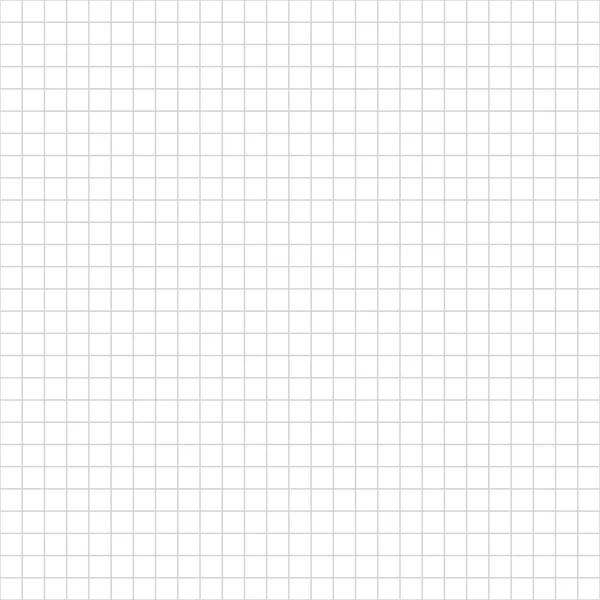
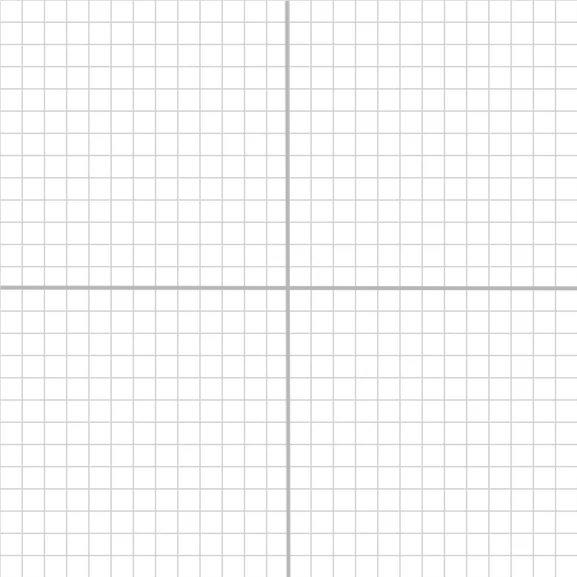
feat: add opportunity to save ornament and open existing ornament

Changed region(s): [[0.0, 0.0, 1.0, 1.0]]

diff --git a/src/main/java/ua/university/ornamenteditor/MainScreenController.java b/src/main/java/ua/university/ornamenteditor/MainScreenController.java
@@ -1,12 +1,22 @@
 package ua.university.ornamenteditor;
+import javafx.embed.swing.SwingFXUtils;
 import javafx.fxml.FXML;
+import javafx.scene.SnapshotParameters;
+import javafx.scene.canvas.GraphicsContext;
 import javafx.scene.control.ChoiceBox;
 import javafx.scene.control.ColorPicker;
 import javafx.scene.control.RadioButton;
+import javafx.scene.image.Image;
+import javafx.scene.image.WritableImage;
 import javafx.scene.paint.Color;
 import javafx.scene.canvas.Canvas;
 
 import javafx.scene.input.MouseEvent;
+import javafx.stage.FileChooser;
+
+import javax.imageio.ImageIO;
+import java.io.File;
+import java.io.IOException;
 
 public class MainScreenController {
 //    @FXML
@@ -17,19 +27,6 @@ public class MainScreenController {
         System.out.println("cleanCanvas");
         CanvasPrinting.deleteAll(myCanvas);
     }
-
-//    @FXML
-//    protected void cleanOneCross(MouseEvent e) {
-//        if (clearOne.isSelected()) {
-//            System.out.println("cleanOneCross");
-//            CanvasPrinting.deleteCross(e, myCanvas);
-//
-//        }
-//        else
-//            System.out.println("dont clear OneCross");
-//
-//
-//    }
 
 
     @FXML
@@ -55,8 +52,6 @@ public class MainScreenController {
         if(chooseSymetry.getValue().equals("Вертикальна")){
             System.out.println("Вертикальна");
         }
-
-
     }
 
     @FXML
@@ -68,16 +63,63 @@ public class MainScreenController {
     protected void printOrnament() {
         System.out.println("printOrnament");
     }
-//
-//    @FXML
-//    protected void printCross(MouseEvent e) {
-//        if (!clearOne.isSelected()) {
-//            System.out.println("printCross");
-//            Color picked = pickedColor.getValue();
-//            CanvasPrinting.putCross(e, myCanvas, picked);
-//        }
-//
-//    }
+
+    @FXML
+    public void saveOrnament(){
+        FileChooser fileChooser = new FileChooser();
+        fileChooser.setTitle("Збереження орнаменту");
+        fileChooser.getExtensionFilters().add(new FileChooser.ExtensionFilter("Зображення PNG (*.png)", "*.png"));
+        File file = fileChooser.showSaveDialog(myCanvas.getScene().getWindow());
+
+        if (file != null) {
+            try {
+                SnapshotParameters params = new SnapshotParameters();
+                params.setFill(Color.TRANSPARENT);
+                WritableImage snapshot = myCanvas.snapshot(params, null);
+                ImageIO.write(SwingFXUtils.fromFXImage(snapshot, null), "png", file);
+                System.out.println("Ornament is saved as: " + file.getAbsolutePath());
+            }
+            catch (IOException ex) {
+                System.out.println("Помилка збереження: " + ex.getMessage());
+            }
+        }
+    }
+
+
+
+
+    @FXML
+    protected void openOrnament() {
+        FileChooser fileChooser = new FileChooser();
+        fileChooser.setTitle("Відкрити орнамент");
+
+        // Дозволяємо вибирати тільки картинки
+        fileChooser.getExtensionFilters().add(
+                new FileChooser.ExtensionFilter("Зображення PNG (*.png)", "*.png")
+        );
+
+        File file = fileChooser.showOpenDialog(myCanvas.getScene().getWindow());
+
+        // Якщо користувач вибрав файл (не натиснув "Скасувати"):
+        if (file != null) {
+            // 2. Завантажуємо файл як об'єкт Image
+            // Метод toURI().toString() перетворює шлях до файлу у зрозумілий для JavaFX формат
+            Image image = new Image(file.toURI().toString());
+
+            // 3. Беремо пензлик нашого полотна
+            GraphicsContext gc = myCanvas.getGraphicsContext2D();
+
+            // (За бажанням) Очищаємо полотно перед тим, як вставити нову картинку
+            gc.clearRect(0, 0, myCanvas.getWidth(), myCanvas.getHeight());
+
+            // 4. Малюємо картинку на полотні!
+            // Координати (0, 0) - це лівий верхній кут. Далі вказуємо ширину і висоту полотна.
+            gc.drawImage(image, 0, 0, myCanvas.getWidth(), myCanvas.getHeight());
+
+            System.out.println("Орнамент успішно завантажено!");
+        }
+    }
+
 
     @FXML
     protected ColorPicker pickedColor;

diff --git a/src/main/java/ua/university/ornamenteditor/CanvasPrinting.java b/src/main/java/ua/university/ornamenteditor/CanvasPrinting.java
@@ -13,8 +13,8 @@ public class CanvasPrinting {
     public static String cross = "✖";
     public static List <Cross> ornament = new ArrayList();
 
-    private static double gridWidth = 470.0 / 27.0;
-    private static double gridHeight = 470.0 / 27.0;
+    private static double gridWidth = 470.0 / 26.0;
+    private static double gridHeight = 470.0 / 26.0;
 
     public static void putCross(MouseEvent e, Canvas canvas, Color pickedColor) {
         double x = e.getX();

diff --git a/src/main/java/module-info.java b/src/main/java/module-info.java
@@ -3,6 +3,7 @@ module ua.university.ornamenteditor {
     requires javafx.fxml;
     requires javafx.graphics;
     requires java.desktop;
+    requires javafx.swing;
 
 
     opens ua.university.ornamenteditor to javafx.fxml;
